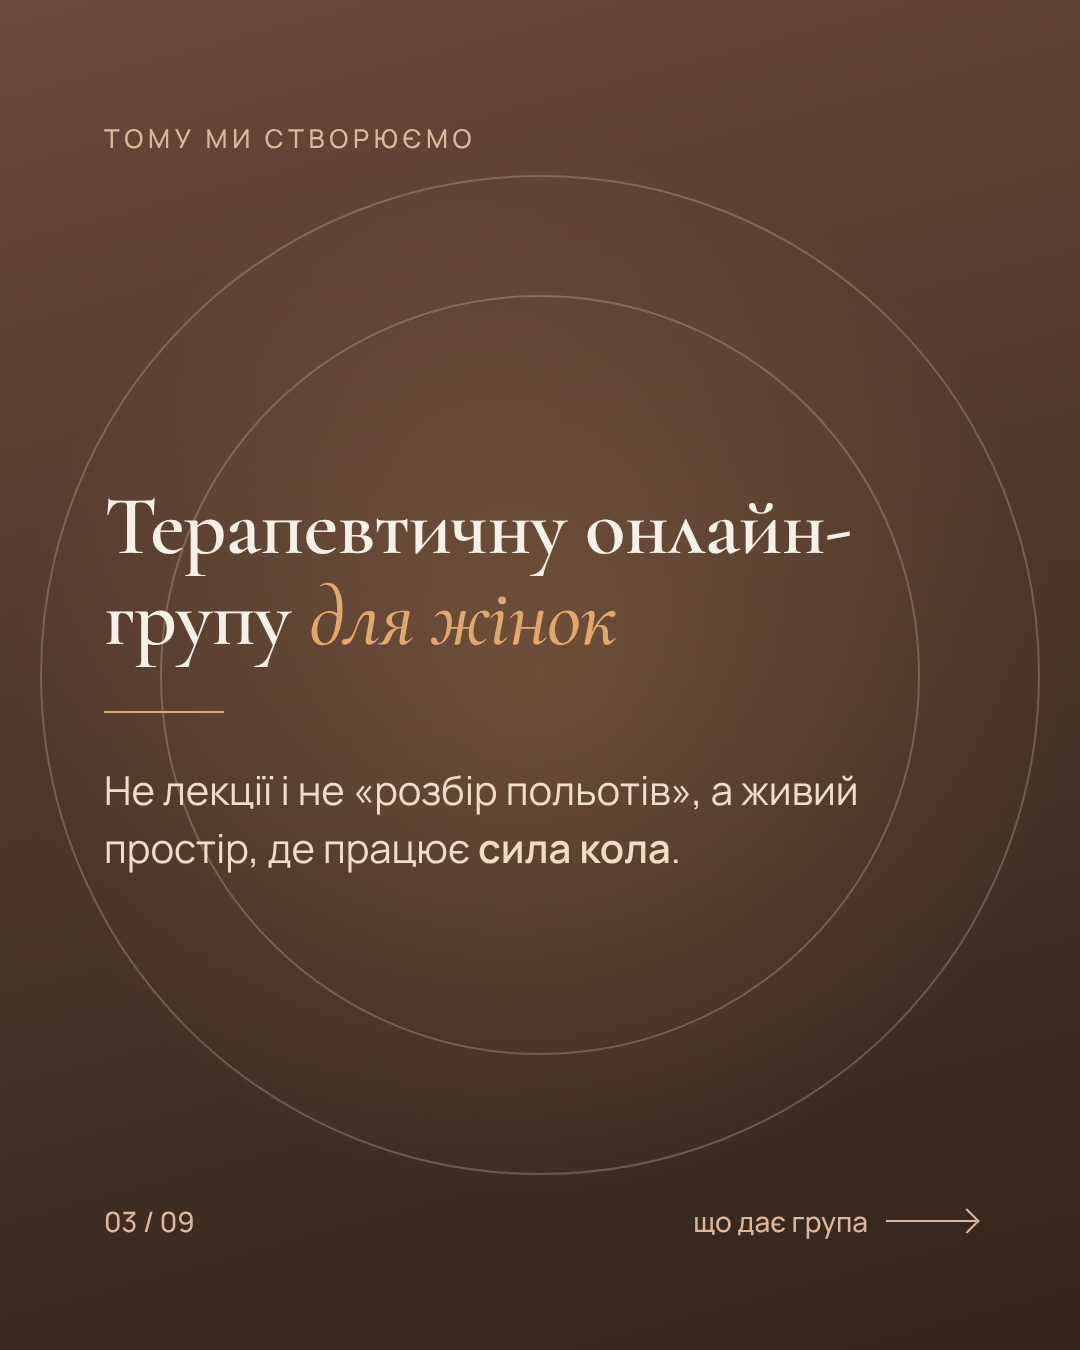
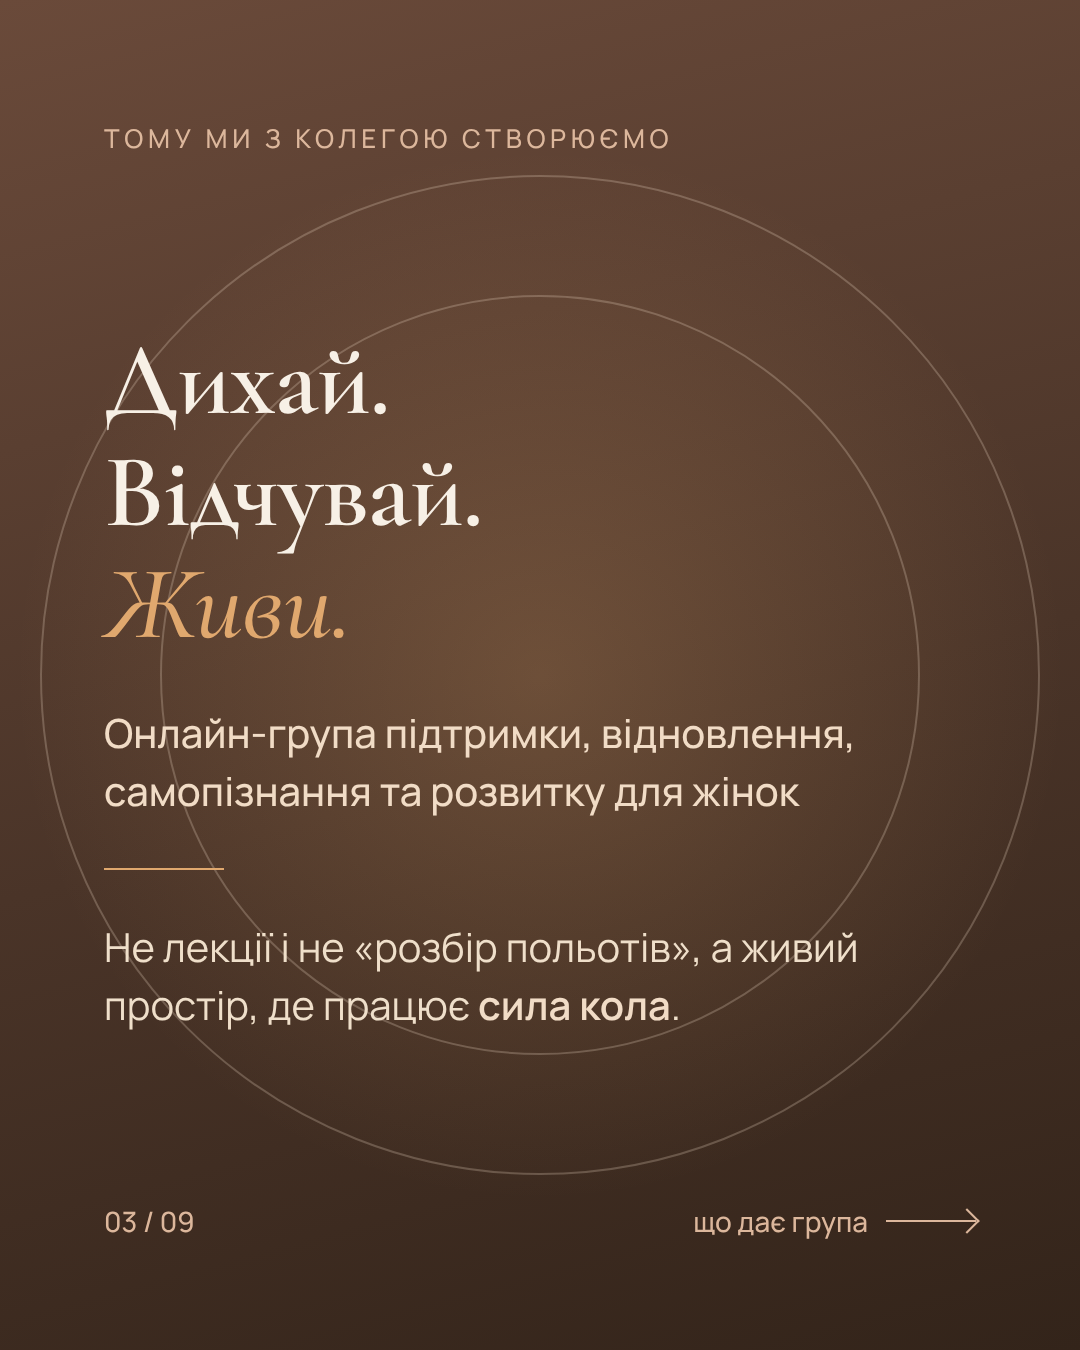
Carousel: name the space "Дихай. Відчувай. Живи", drop "therapeutic" wording
Claude-Session: https://claude.ai/code/session_01Ybrem4L8V91CpdmvQtLtua

diff --git a/reels/carousel/carousel.html b/reels/carousel/carousel.html
@@ -52,7 +52,7 @@ p{font-size:40px;line-height:1.45;color:var(--soft);font-weight:400}
 <section class="s" style="--cx:70%;--cy:62%">
   <div class="ring" style="width:880px;height:880px;right:-300px;bottom:-200px"></div>
   <div class="ring" style="width:620px;height:620px;right:-170px;bottom:-70px"></div>
-  <div class="top"><span>Терапевтична група</span><span>для жінок</span></div>
+  <div class="top"><span>Дихай. Відчувай. Живи</span><span>простір для жінок</span></div>
   <div class="body">
     <h1 class="serif">Чому з тривогою і&nbsp;втомою так важко впоратися <em>наодинці?</em></h1>
   </div>
@@ -75,9 +75,10 @@ p{font-size:40px;line-height:1.45;color:var(--soft);font-weight:400}
 <section class="s dark" style="--cx:50%;--cy:50%">
   <div class="ring" style="width:1000px;height:1000px;left:40px;top:175px"></div>
   <div class="ring" style="width:760px;height:760px;left:160px;top:295px"></div>
-  <div class="top"><span>Тому ми створюємо</span><span></span></div>
+  <div class="top"><span>Тому ми з колегою створюємо</span><span></span></div>
   <div class="body">
-    <h2 class="serif">Терапевтичну онлайн-групу <em>для&nbsp;жінок</em></h2>
+    <h1 class="serif">Дихай.<br>Відчувай.<br><em>Живи.</em></h1>
+    <p style="margin-top:44px;color:#f1dcc6;font-weight:500">Онлайн-група підтримки, відновлення, самопізнання та&nbsp;розвитку для&nbsp;жінок</p>
     <div class="line"></div>
     <p>Не лекції і не «розбір польотів», а&nbsp;живий простір, де працює <b style="color:#f1dcc6;font-weight:600">сила кола</b>.</p>
   </div>
@@ -156,7 +157,7 @@ p{font-size:40px;line-height:1.45;color:var(--soft);font-weight:400}
 <section class="s dark" style="--cx:60%;--cy:45%">
   <div class="ring" style="width:900px;height:900px;right:-260px;top:100px"></div>
   <div class="ring" style="width:640px;height:640px;right:-130px;top:230px"></div>
-  <div class="top"><span>Запрошення</span><span></span></div>
+  <div class="top"><span>Дихай. Відчувай. Живи</span><span>запрошення</span></div>
   <div class="body">
     <h2 class="serif">Відкритий ефір <em>знайомства</em></h2>
     <div class="date"><div class="d">18</div><div class="m">грудня<br>19:00 за Києвом<br>Zoom</div></div>
